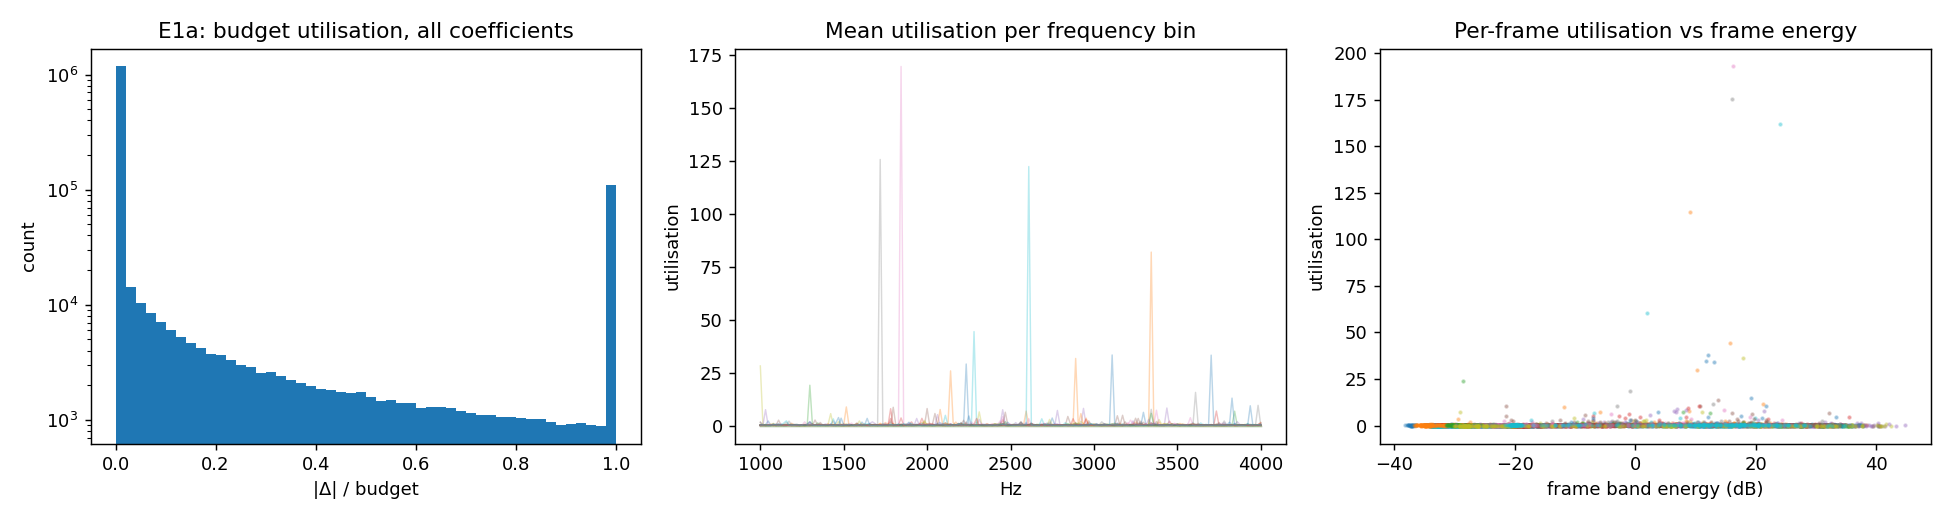
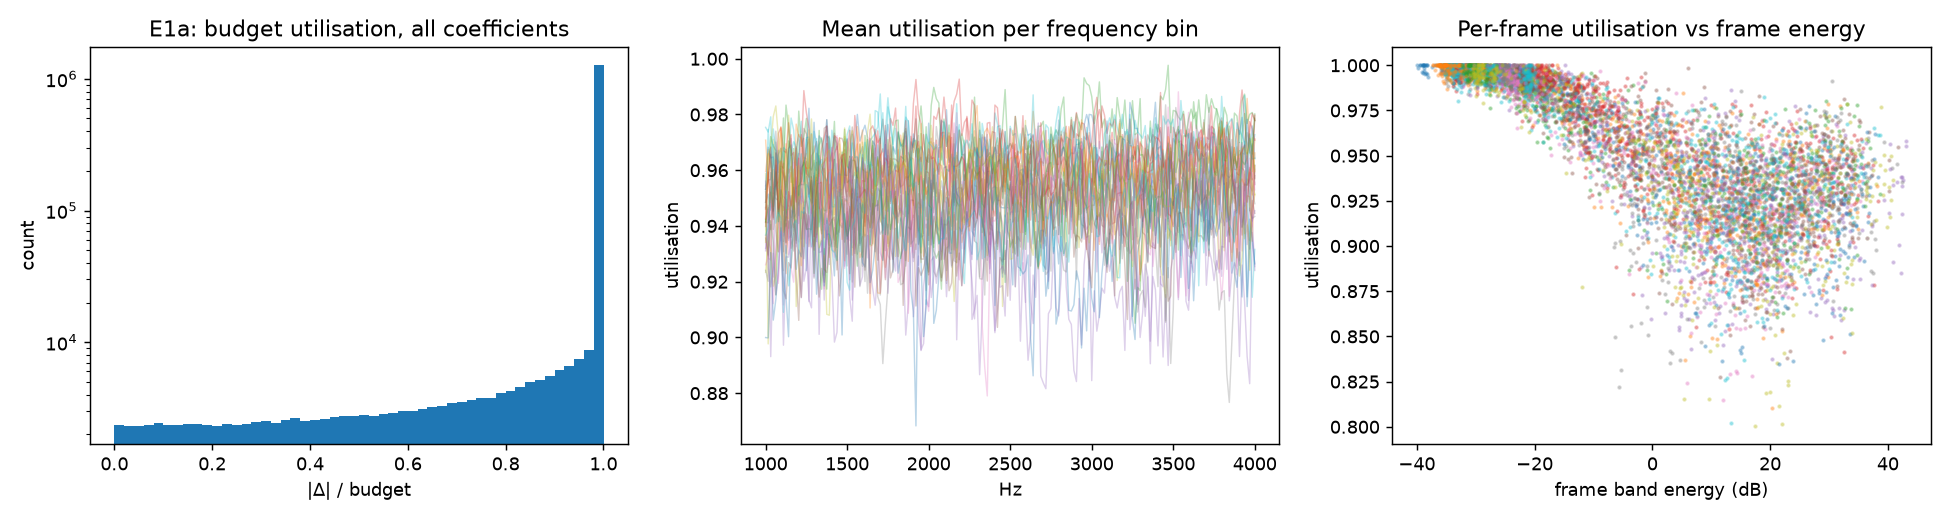
Fix E1a capture bug and write up E0/E1 results
On CPU, AWARE's _optimize updates initial_coeffs in place, so reading it
after the call gave the last iterate instead of the original magnitudes.
That made the budget look slack (9% saturated). The capture now copies
first, and aggregate.py rebuilds the true magnitudes from the unaffected
upper bounds: 89% of coefficients sit at the limit, so the budget is
binding. probe_budget_utilization.py had the same bug and is fixed too.

diff --git a/masking/aggregate.py b/masking/aggregate.py
@@ -32,6 +32,8 @@ def fmt(m, s):
 
 
 def write_params(qual):
+    if not os.path.exists(C.CLIPS_JSON):        # off-cluster re-aggregation: keep the cluster's params.json
+        return
     import subprocess
     from importlib.metadata import version, PackageNotFoundError
 
@@ -52,12 +54,37 @@ def write_params(qual):
     json.dump(params, open(os.path.join(C.RESULTS, "params.json"), "w"), indent=2)
 
 
+def true_initial(z, tol_db):
+    """Original magnitudes, rebuilt from the bounds: upper = M * (1 + 10^(-tol/20)).
+    The npz `initial` field cannot be trusted for runs captured before the
+    in-place fix in common.OptimizeCapture (it holds the last iterate)."""
+    return z["upper"] / (1 + 10 ** (-tol_db / 20))
+
+
+def e1a_from_npz(tol_db):
+    """E1a stats recomputed from data/e1a_<clip>.npz (the per-clip e1a_<clip>.json
+    files of the 2026-10-06 run are wrong -- see the run README). Writes
+    e1a_stats.csv beside summary.md."""
+    from run_e0_e1 import e1a_stats
+    rows = []
+    for f in sorted(glob.glob(os.path.join(C.DATA, "e1a_*.npz"))):
+        z = np.load(f)
+        cap = dict(initial=true_initial(z, tol_db), final=z["final"], upper=z["upper"],
+                   freq_indices=z["freq_indices"])
+        st, _ = e1a_stats(cap, tol_db)
+        st["clip_id"] = os.path.basename(f)[4:-4]
+        rows.append(st)
+    df = pd.DataFrame(rows)
+    df.to_csv(os.path.join(C.RESULTS, "e1a_stats.csv"), index=False)
+    return df
+
+
 def main():
     os.makedirs(C.FIGS, exist_ok=True)
     qual = load("e0_quality_*.csv")
     att = load("e0_attacks_*.csv")
     win = load("e1b_*.csv")
-    e1a = pd.DataFrame([json.load(open(f)) for f in sorted(glob.glob(os.path.join(C.DATA, "e1a_*.json")))])
+    e1a = e1a_from_npz(float(qual.tolerance_db.iloc[0]))
     if qual.empty:
         raise SystemExit(f"no data in {C.DATA}")
     n = len(qual)
@@ -144,13 +171,16 @@ def main():
         fig, ax = plt.subplots(1, 3, figsize=(15, 4))
         for f in npz:
             z = np.load(f)
-            delta = z["upper"] - z["initial"]
-            u = np.divide(np.abs(z["final"] - z["initial"]), delta,
+            init = true_initial(z, float(qual.tolerance_db.iloc[0]))
+            delta = z["upper"] - init
+            u = np.divide(np.abs(z["final"] - init), delta,
                           out=np.zeros_like(delta), where=delta > 1e-12)
             utils.append(u)
+            nf = len(z["freq_indices"])
+            U, Mg = u.reshape(nf, -1), init.reshape(nf, -1)
             freqs = z["freq_indices"] * C.SR / 1024
-            ax[1].plot(freqs, z["util_per_freq"], alpha=0.3, lw=0.8)
-            ax[2].scatter(z["frame_band_db"], z["util_per_frame"], s=2, alpha=0.3)
+            ax[1].plot(freqs, U.mean(axis=1), alpha=0.3, lw=0.8)
+            ax[2].scatter(10 * np.log10(np.sum(Mg ** 2, axis=0) + 1e-12), U.mean(axis=0), s=2, alpha=0.3)
         ax[0].hist(np.concatenate(utils), bins=50, range=(0, 1.0001))
         ax[0].set(title="E1a: budget utilisation, all coefficients", xlabel="|Δ| / budget", ylabel="count")
         ax[0].set_yscale("log")

diff --git a/masking/common.py b/masking/common.py
@@ -62,10 +62,16 @@ class OptimizeCapture:
 
     def _wrapped(self, initial_coeffs, stft_magnitude, watermark_pattern,
                  freq_indices, not_freq_indices, bounds, stft_phase):
+        # Copy BEFORE optimising: on CPU, aware.utils.to_tensor returns the same
+        # tensor and .to("cpu") is a no-op, so _optimize updates initial_coeffs
+        # in place -- after the call it holds the LAST iterate, not the original
+        # magnitudes. (The 2026-10-06 run captured it after; aggregate.py derives
+        # the true initial from `upper` instead, which is unaffected.)
+        initial = initial_coeffs.detach().cpu().numpy().astype("float32").copy()
         out = self.orig(initial_coeffs, stft_magnitude, watermark_pattern,
                         freq_indices, not_freq_indices, bounds, stft_phase)
         self.data = dict(
-            initial=initial_coeffs.detach().cpu().numpy().astype("float32").copy(),
+            initial=initial,
             final=out.detach().cpu().numpy().astype("float32").copy(),
             upper=np.array([b[1] for b in bounds], dtype="float32"),
             lower=np.array([b[0] for b in bounds], dtype="float32"),

diff --git a/probe_budget_utilization.py b/probe_budget_utilization.py
@@ -46,9 +46,11 @@ def main():
 
     def patched_optimize(initial_coeffs, stft_magnitude, watermark_pattern,
                           freq_indices, not_freq_indices, bounds, stft_phase):
+        # copy first: on CPU _optimize updates initial_coeffs in place, so reading
+        # it afterwards gives the last iterate (found in results/2026-10-06_masking-e0-e1)
+        captured["initial"] = initial_coeffs.detach().cpu().numpy().copy()
         result = orig_optimize(initial_coeffs, stft_magnitude, watermark_pattern,
                                 freq_indices, not_freq_indices, bounds, stft_phase)
-        captured["initial"] = initial_coeffs.detach().cpu().numpy().copy()
         captured["final"] = result.detach().cpu().numpy().copy()
         captured["bounds"] = bounds
         return result

diff --git a/results/2026-10-06_masking-e0-e1/README.md b/results/2026-10-06_masking-e0-e1/README.md
@@ -69,6 +69,80 @@ operating point (lower tolerance), where the budget will bind.
 - `summary.md`, `e0_robustness_table.csv`, `params.json`, `figures/` — from `masking/aggregate.py`
 - Audio (original + watermarked) stays on the cluster in `masking/work/` (gitignored).
 
+## Correction (found while reading the results)
+
+The first `aggregate.py` printed **Gate 1a: SLACK** (9.3 % saturated). That was a
+bug in `masking/common.py`, not a finding. On CPU, `aware.utils.to_tensor` returns
+the same tensor and `.to("cpu")` is a no-op, so `AWAREEmbedder._optimize` updates
+`initial_coeffs` **in place**. The capture read it *after* the call, so the
+`initial` field in `data/e1a_<clip>.npz` and every number in `data/e1a_<clip>.json`
+compare the best iterate with the *last* iterate, not with the original audio.
+
+- Fixed: `OptimizeCapture` now copies before optimising.
+- Recomputed without a rerun: `upper = M·(1 + 10^(−tol/20))` is unaffected, so
+  `aggregate.py` rebuilds the true magnitudes from it. Corrected per-clip stats are
+  in `e1a_stats.csv`. **The `data/e1a_<clip>.json` files are wrong** and are kept
+  only because `data/` is never overwritten. Ignore `initial` in the npz files.
+- The older single-clip probe (`probe_budget_utilization.py`) had the same bug, so
+  its "~5 % hot tail" — the basis of prediction 3 — was also an artefact. Fixed too.
+- E0 and E1b are unaffected (they never use the capture).
+
+## Results (30 clips, 3.0–6.7 s, median 3.9 s)
+
+**E0 — baseline to beat**
+
+| | value |
+|---|---|
+| PESQ | 4.15 ± 0.20 (min 3.62) |
+| STOI | 0.985 |
+| SNR / SI-SNR | 17.1 ± 3.7 dB (min 9.9) / 18.5 dB |
+| embed time (CPU, 4 cores) | median 12.2 s (one outlier 259 s) |
+| clean bit accuracy | 0.997; 28/30 perfect, asv11 and asv18 have 1 wrong bit of 20 |
+| 11 attacks | **identical to clean** for MP3 128/64, AWGN 25 dB, resample 8 k, lowpass 6 k, amp 0.6/1.4, requant 8 bit, crop 2048/6144 |
+| median_3 | 0.983 (4 more clips lose 1–2 bits) |
+
+**E1a — budget usage (corrected)**
+
+| | value |
+|---|---|
+| coefficients at > 95 % of budget | **89.2 %** (82–94 % per clip) |
+| median utilisation | **1.00** |
+| quiet bins (bottom 25 %) at the limit | 99.1 % |
+| loud bins (top 25 %) at the limit | 78.6 % |
+| pushed up vs down at the limit | 48 % / 52 % |
+| Spearman(frame energy, frame utilisation) | −0.76 |
+| watermark energy relative to the band | −6.8 dB (the 6 dB tolerance itself) |
+
+**E1b — window readability.** 1 s windows decode at chance (~0.5) below about
+−30 dBFS and at 0.8–1.0 in speech (−25 to −12 dBFS). Q1→Q5 loudness: 0.50 → 0.90
+on clean, and the **same curve** under mp3_64 and awgn_25.
+
+## Gate 1
+
+- **1a: BINDING** (89 % ≥ 25 %). Prediction 3 refuted (it rested on the buggy probe).
+- **1b: errors CLUSTER** by loudness (Q5 − Q1 = +0.40 ≥ 0.10). Prediction 4 confirmed.
+
+## What it means
+
+1. **AWARE is a bang-bang embedder.** The optimiser pushes almost every 1–4 kHz
+   coefficient to ±budget, about half up and half down. The watermark is therefore
+   the budget times a sign pattern. **Whatever shape the budget has is the shape
+   of the watermark**, so swapping the 6 dB rule for a masking threshold changes
+   the watermark directly. This is the strongest possible case for E10.
+2. **Quiet regions carry almost no watermark.** The budget is proportional to the
+   magnitude, so pauses get a near-zero change and decode at chance even with no
+   attack. Clean and attacked curves are the same, so this is an embedding
+   limitation, not attack damage. Masking can add room here only through
+   post-masking after loud frames and the hearing floor; frequency spreading helps
+   inside speech frames, not in silence.
+3. **The starter attacks are too weak to separate methods.** 11 of 12 give the
+   clean BER. E10 (equal quality, compare BER) would show no difference with this
+   set. **Before E10 we need a harder attack set** where baseline AWARE has
+   BER around 5–20 %. Earlier runs here point to Encodec 6 kbps, MP3 8–16 kbps,
+   resampling to 4 kHz, AWGN 5–10 dB, and highpass ~1–2 kHz.
+4. Loud frames leave ~8 % of the budget unused — the optimiser stops needing it
+   there. More room in loud frames is less valuable than more room elsewhere.
+
 ## Status
 
-planned — code committed, not yet run.
+complete — E1a corrected in place of the first aggregate output (see Correction).

diff --git a/results/INDEX.md b/results/INDEX.md
@@ -10,7 +10,7 @@ disagree in a way neither run reveals alone.
 
 | Date | Experiment | Headline finding | Status |
 |---|---|---|---|
-| 2026-10-06 | [masking-e0-e1](2026-10-06_masking-e0-e1/) | First step of masking-threshold-in-AWARE. E0 = AWARE baseline on 30 ASVspoof19 LA bona fide clips (quality, runtime, 12 attacks); E1a = how much of AWARE's per-bin budget the optimiser uses; E1b = window-level readability vs loudness. Gate rules and predictions in [README.md](2026-10-06_masking-e0-e1/README.md) | **planned** |
+| 2026-10-06 | [masking-e0-e1](2026-10-06_masking-e0-e1/) | **AWARE's budget is binding: 89 % of 1–4 kHz coefficients sit at the ±6 dB limit** (bang-bang; the watermark is the budget × a sign pattern), so a masking budget changes the watermark directly. **Quiet windows (< −30 dBFS) decode at chance even without attack** — the magnitude-proportional budget puts no mark there. E0 baseline on 30 ASVspoof19 LA clips: PESQ 4.15, SNR 17.1 dB, clean bit acc 0.997; **11 of 12 starter attacks equal clean**, so E10 needs harder attacks. A capture bug first showed "slack"; fixed and recomputed — see [README.md](2026-10-06_masking-e0-e1/README.md) | **complete** |
 | 2026-09-15 | [informed-detection-v2](2026-09-15_informed-detection-v2/) | **Phase B re-run of `lowpass` only, with 9 measurement errors fixed in the code** (other attacks keep run-1 results). Lowpass axis reversed; informed reference contained voice above 8 kHz (new `informed16` arm, whole clip at 16 kHz, reported **beside** the registered arm); `volume_down`/`volume_up` silently never calibrated (20 of 22 attacks ran); bisection blind to non-monotone attacks (now `NON_MONOTONE`); blind wins and fail-at-weakest wins undercounted; mean/label sign mismatch; raw null scores never saved. Registered run 1 kept untouched. See [README.md](2026-09-15_informed-detection-v2/README.md) | **submitted** |
 | 2026-09-11 | [aware-lowpass-null](2026-09-11_aware-lowpass-null/) | **Lowpass "no data" = a reversed axis + a real AWARE flaw.** Clean speech lowpassed to 441 Hz: **48/50** scored > 0.5, bit accuracy at chance — AWARE's conf is `sigmoid(mean |activations|)` and never checks the key. Normal lowpass is harmless (0/50 down to 1.5 kHz); AWARE's real limit is ~1.5–2.2 kHz. **Phase B's informed detector was mis-measured:** reference `wm − org` held up to **62%** voice energy above 8 kHz, putting the clean threshold at 0.47 on a near-no-op filter (78% detected). Whole-clip at 16 kHz: threshold **0.048**, **100%**, and beats blind at 1.5 kHz (**58% vs 28%**). Highpass is non-monotone for blind. See [README.md](2026-09-11_aware-lowpass-null/README.md) | **complete** |
 | 2026-08-28 | [informed-detection](2026-08-28_informed-detection/) | **Phase A complete.** 27 attacks, 118 configs, 50 clips. **Only 3 attacks beat detection on usable audio — all codec** (`encodec` 6kbps, `mp3` 8k, `resample_roundtrip` 4kHz), and all 3 have bit accuracy **below 0.85**, so the watermark is destroyed rather than masked. **Every additive attack was shrugged off** — music, gaussian, babble, factory, machinegun all at conf **1.00**, bit acc **1.000**. The music-bed lead candidate is dead (window −14.16 dB, 0/19 clips). **Predictions 1 and 2 refuted**; my category prediction was backwards — compression breaks AWARE, adding sound does not. **Caveat:** verdicts depended on a quality floor that listening contradicted, and 54% of music-sweep rows lost DNSMOS to a ValueError. **[Phase B](2026-08-28_informed-detection/PHASE_B_PLAN.md) drops the quality threshold entirely** — paired blind-vs-informed crossings by bisection at matched 1% FPR. See [README.md](2026-08-28_informed-detection/README.md) | **phase A complete; phase B run 1 complete — measurement errors found, see [v2](2026-09-15_informed-detection-v2/)** |

diff --git a/results/2026-10-06_masking-e0-e1/summary.md b/results/2026-10-06_masking-e0-e1/summary.md
@@ -1,5 +1,13 @@
 # E0 + E1 summary — 2026-10-06_masking-e0-e1
 
+> **Conclusion.** Gate 1a: AWARE's budget is **binding** — 89 % of 1–4 kHz
+> coefficients sit at the ±6 dB limit, so the budget's shape *is* the watermark's
+> shape and a masking-threshold budget would change the watermark directly.
+> Gate 1b: readability **clusters by loudness** — 1 s windows below ~−30 dBFS decode
+> at chance, identically with and without attacks. The 12 starter attacks barely
+> move BER (11 equal clean), so E10 needs a harder attack set first. E1a below is
+> recomputed from the bounds; see README "Correction".
+
 Clips: **30** bona fide ASVspoof2019 LA eval utterances (one per speaker). AWARE `AWARE`, 400 iterations, tolerance 6.0 dB, 20-bit payload.
 
 ## E0 — quality of the watermarked audio
@@ -34,20 +42,20 @@ Clips: **30** bona fide ASVspoof2019 LA eval utterances (one per speaker). AWARE
 
 | quantity | mean over clips | min | max |
 |---|---|---|---|
-| util_mean | 0.405 | 0.000 | 1.263 |
-| util_median | 0.000 | 0.000 | 0.000 |
-| frac_util_gt_0p95 | 0.093 | 0.000 | 0.172 |
-| frac_util_gt_0p5 | 0.112 | 0.000 | 0.194 |
-| frac_util_lt_0p05 | 0.831 | 0.735 | 1.000 |
-| quiet_util_mean | 0.177 | 0.000 | 0.389 |
-| loud_util_mean | 0.641 | 0.000 | 3.841 |
-| quiet_frac_sat | 0.160 | 0.000 | 0.382 |
-| loud_frac_sat | 0.070 | 0.000 | 0.109 |
-| sat_pushed_up | 0.838 | 0.707 | 0.921 |
-| spearman_frame_energy_vs_util | 0.085 | -0.277 | 0.634 |
-| rel_change_energy_db | -inf | -inf | -24.575 |
+| util_mean | 0.952 | 0.924 | 0.971 |
+| util_median | 1.000 | 1.000 | 1.000 |
+| frac_util_gt_0p95 | 0.892 | 0.820 | 0.938 |
+| frac_util_gt_0p5 | 0.956 | 0.933 | 0.972 |
+| frac_util_lt_0p05 | 0.004 | 0.003 | 0.007 |
+| quiet_util_mean | 0.995 | 0.988 | 0.999 |
+| loud_util_mean | 0.916 | 0.892 | 0.939 |
+| quiet_frac_sat | 0.991 | 0.977 | 0.998 |
+| loud_frac_sat | 0.786 | 0.730 | 0.859 |
+| sat_pushed_up | 0.476 | 0.459 | 0.509 |
+| spearman_frame_energy_vs_util | -0.761 | -0.894 | -0.450 |
+| rel_change_energy_db | -6.802 | -7.721 | -6.407 |
 
-**Gate 1a verdict: budget is SLACK** (9.3% of coefficients use > 95% of their budget; rule: ≥ 25% binding, < 10% slack).
+**Gate 1a verdict: budget is BINDING** (89.2% of coefficients use > 95% of their budget; rule: ≥ 25% binding, < 10% slack).
 
 ## E1b — which windows carry the watermark
 
